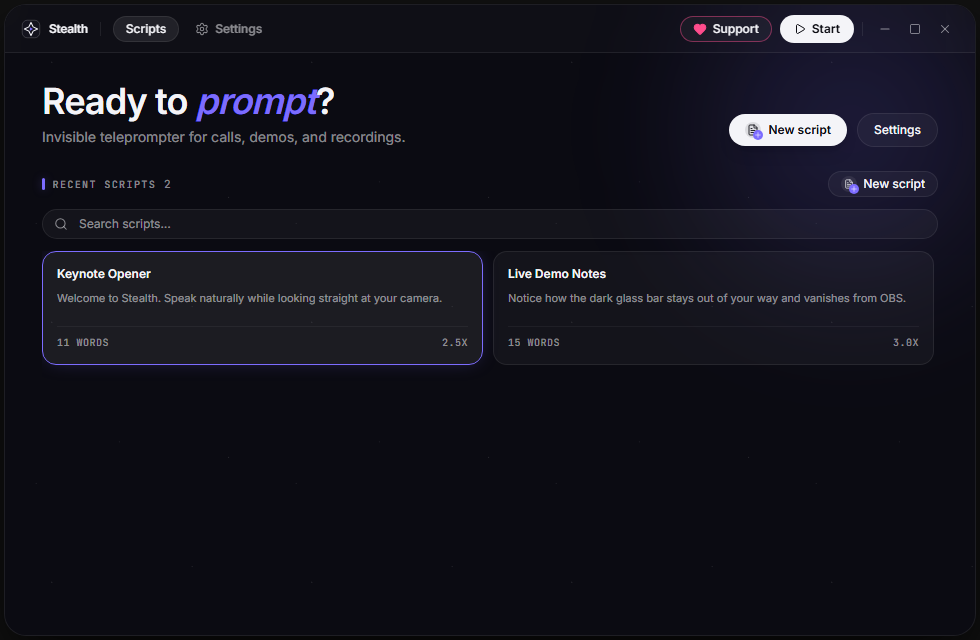
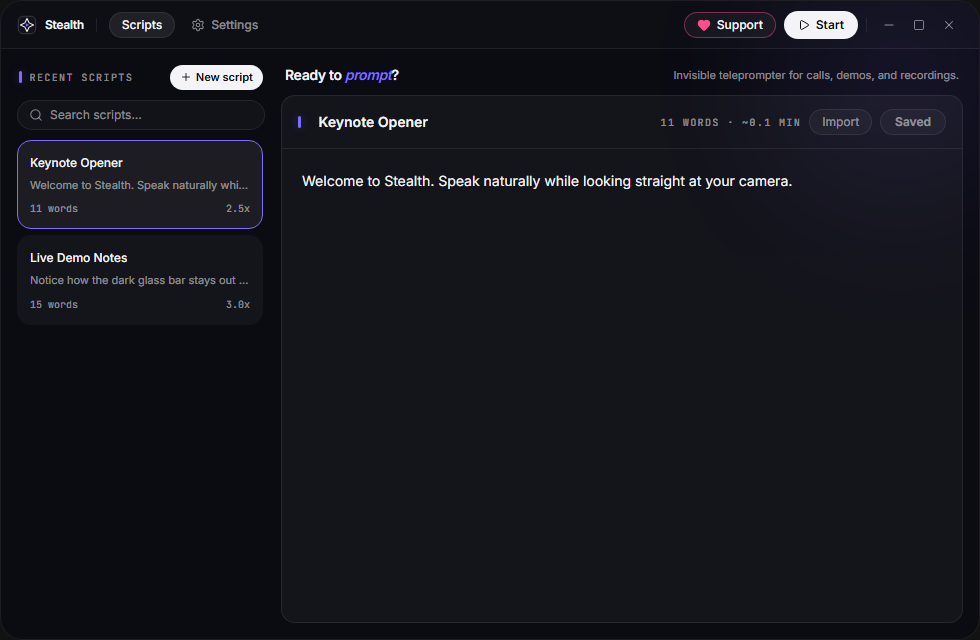
fix(ui): remove Windows DWM outer border, add top drag handle on prompter, simplify workspace

diff --git a/src/launcher/App.tsx b/src/launcher/App.tsx
@@ -33,8 +33,6 @@ import {
   LockIcon,
   PlayIcon,
   SettingsIcon,
-  PlusIcon,
-  FileTextIcon,
   HeartIcon,
   ExternalLinkIcon,
 } from '../components/Icons';
@@ -105,7 +103,7 @@ export default function LauncherApp(): JSX.Element {
   const [invisibilityActive, setInvisibilityActive] = createSignal<boolean>(true);
   const [hudVisible, setHudVisible] = createSignal<boolean>(false);
   const [hudSpeed, setHudSpeed] = createSignal<number>(3.0);
-  const [view, setView] = createSignal<'home' | 'editor' | 'settings'>('home');
+  const [view, setView] = createSignal<'workspace' | 'settings'>('workspace');
   const [supportMenuOpen, setSupportMenuOpen] = createSignal<boolean>(false);
 
   const t = () => getCopy(settings().language);
@@ -174,7 +172,6 @@ export default function LauncherApp(): JSX.Element {
       setSettings(updatedSettings);
       await saveSettings(updatedSettings);
       await emitUpdateScript(s);
-      setView('editor');
     } catch (e) {
       console.error('Failed to select script:', e);
     }
@@ -196,7 +193,7 @@ export default function LauncherApp(): JSX.Element {
     setScripts(updated);
     setActiveScript(newScript);
     await emitUpdateScript(newScript);
-    setView('editor');
+    setView('workspace');
   };
 
   const handleDeleteScript = async (id: string) => {
@@ -313,25 +310,23 @@ export default function LauncherApp(): JSX.Element {
 
   return (
     <div
-      class="w-screen h-screen overflow-hidden select-none relative font-sans bg-transparent p-1 box-border"
+      class="w-screen h-screen overflow-hidden select-none relative font-sans bg-transparent box-border"
       onClick={() => {
         if (supportMenuOpen()) setSupportMenuOpen(false);
       }}
     >
-      {/* Rounded Dark Glass Window Shell */}
-      <div
-        class="w-full h-full rounded-[22px] bg-[#0b0b12] border border-[var(--border)] overflow-hidden flex flex-col relative shadow-[0_24px_64px_rgba(0,0,0,0.78)] stealth-starfield"
-      >
-        {/* Subtle Corner Radial Glow using --accent-glow */}
+      {/* Full-bleed Rounded Window (no outer padding gap, zero Windows DWM border) */}
+      <div class="w-full h-full rounded-[22px] bg-[#0b0b12] border border-[var(--border)] overflow-hidden flex flex-col relative">
+        {/* Subtle Corner Ambient Glow */}
         <div
-          class="pointer-events-none absolute -top-24 -right-24 w-[440px] h-[440px] rounded-full blur-3xl opacity-65 transition-colors duration-300"
-          style={{ background: 'radial-gradient(circle, var(--accent-glow) 0%, transparent 70%)' }}
+          class="pointer-events-none absolute -top-28 -right-28 w-[380px] h-[380px] rounded-full blur-3xl opacity-40 transition-colors duration-300"
+          style={{ background: 'radial-gradient(circle, var(--accent-glow) 0%, transparent 72%)' }}
         />
 
         {/* Custom Frameless Draggable Titlebar */}
         <header
           data-tauri-drag-region
-          class="h-12 px-4 flex items-center justify-between border-b border-[var(--border)] bg-white/[0.02] backdrop-blur-md z-30 shrink-0 select-none"
+          class="h-12 px-4 flex items-center justify-between border-b border-[var(--border)] bg-white/[0.015] z-30 shrink-0 select-none"
         >
           {/* Left: Brand & View Pills */}
           <div data-tauri-drag-region class="flex items-center gap-3">
@@ -347,9 +342,9 @@ export default function LauncherApp(): JSX.Element {
             <nav class="flex items-center gap-1">
               <button
                 type="button"
-                onClick={() => setView('home')}
+                onClick={() => setView('workspace')}
                 class={`px-3 py-1 rounded-full text-xs font-medium transition-colors duration-150 ${
-                  view() !== 'settings'
+                  view() === 'workspace'
                     ? 'bg-white/[0.08] text-[var(--text)] border border-[var(--border)]'
                     : 'text-[var(--text-muted)] hover:text-[var(--text)]'
                 }`}
@@ -358,7 +353,7 @@ export default function LauncherApp(): JSX.Element {
               </button>
               <button
                 type="button"
-                onClick={() => setView(view() === 'settings' ? 'home' : 'settings')}
+                onClick={() => setView(view() === 'settings' ? 'workspace' : 'settings')}
                 class={`flex items-center gap-1.5 px-3 py-1 rounded-full text-xs font-medium transition-colors duration-150 ${
                   view() === 'settings'
                     ? 'bg-white/[0.08] text-[var(--text)] border border-[var(--accent)]'
@@ -385,14 +380,14 @@ export default function LauncherApp(): JSX.Element {
               </button>
             </Show>
 
-            {/* Support Pill Button (Only the heart is pink, matching user reference) */}
+            {/* Support Pill Button (Only the heart is pink) */}
             <div class="relative" onClick={(e) => e.stopPropagation()}>
               <button
                 type="button"
                 data-testid="support-button"
                 onClick={() => setSupportMenuOpen(!supportMenuOpen())}
                 title={t().supportTitle}
-                class="flex items-center gap-1.5 px-3 py-1 rounded-full bg-[var(--surface)] hover:bg-[var(--surface-hover)] border border-[#ff4d8d]/45 text-xs font-medium text-[var(--text)] transition-all duration-150"
+                class="flex items-center gap-1.5 px-3 py-1 rounded-full bg-[var(--surface)] hover:bg-[var(--surface-hover)] border border-[#ff4d8d]/45 text-xs font-medium text-[var(--text)] transition-colors duration-150"
               >
                 <HeartIcon class="w-3.5 h-3.5 text-[#ff4d8d]" />
                 <span>{t().support}</span>
@@ -437,7 +432,7 @@ export default function LauncherApp(): JSX.Element {
               title="Open / Close Prompter (Alt+H)"
               class={`h-7 px-3.5 rounded-full text-xs font-semibold flex items-center gap-1.5 transition-all duration-150 ${
                 hudVisible()
-                  ? 'bg-[var(--accent)] text-white shadow-[0_0_16px_var(--accent-glow)]'
+                  ? 'bg-[var(--accent)] text-white shadow-[0_0_14px_var(--accent-glow)]'
                   : 'bg-[var(--text)] text-[#0b0b12] hover:opacity-90'
               }`}
             >
@@ -480,50 +475,12 @@ export default function LauncherApp(): JSX.Element {
           </div>
         </header>
 
-        {/* Main Content Area */}
-        <main class="flex-1 min-h-0 p-6 flex flex-col relative z-10 overflow-hidden">
-          <Show when={view() === 'home'}>
-            <div class="flex flex-col h-full gap-6 max-w-4xl w-full mx-auto">
-              {/* Hero Header */}
-              <div class="flex flex-col sm:flex-row sm:items-end justify-between gap-4 pt-1">
-                <div>
-                  <h1 class="text-3xl sm:text-4xl font-semibold tracking-tight text-[var(--text)]">
-                    {t().heroPrefix}{' '}
-                    <em class="italic font-semibold text-[var(--accent)]">{t().heroAccent}</em>
-                    {t().heroSuffix}
-                  </h1>
-                  <p class="text-xs sm:text-sm text-[var(--text-muted)] mt-1.5">
-                    {t().heroSubtitle}
-                  </p>
-                </div>
-
-                <div class="flex items-center gap-2.5 shrink-0">
-                  <button
-                    type="button"
-                    onClick={handleCreateScript}
-                    class="flex items-center gap-2 px-4 py-2 rounded-full bg-[var(--text)] text-[#0b0b12] hover:opacity-90 text-xs font-semibold shadow-lg transition-all duration-150"
-                  >
-                    <span class="relative inline-flex items-center justify-center w-4 h-4 rounded-full bg-[#0b0b12]/10">
-                      <FileTextIcon class="w-3 h-3 text-[#0b0b12]" />
-                      <span class="absolute -bottom-0.5 -right-0.5 w-2.5 h-2.5 rounded-full bg-[var(--accent)] text-white flex items-center justify-center">
-                        <PlusIcon class="w-2 h-2" />
-                      </span>
-                    </span>
-                    <span>{t().newScript}</span>
-                  </button>
-
-                  <button
-                    type="button"
-                    onClick={() => setView('settings')}
-                    class="px-4 py-2 rounded-full bg-[var(--surface)] hover:bg-[var(--surface-hover)] border border-[var(--border)] text-xs font-medium text-[var(--text)] transition-all duration-150"
-                  >
-                    {t().navSettings}
-                  </button>
-                </div>
-              </div>
-
-              {/* Recent Scripts Glass Cards */}
-              <div class="flex-1 min-h-0">
+        {/* Main Body: Calm Desktop Split Workspace or Settings */}
+        <main class="flex-1 min-h-0 p-4 flex flex-col relative z-10 overflow-hidden">
+          <Show when={view() === 'workspace'}>
+            <div class="flex-1 min-h-0 flex gap-4">
+              {/* Left Column: Compact Script Library */}
+              <div class="w-[248px] shrink-0 h-full">
                 <ScriptList
                   scripts={scripts()}
                   selectedId={activeScript()?.id || null}
@@ -533,24 +490,34 @@ export default function LauncherApp(): JSX.Element {
                   onDelete={handleDeleteScript}
                 />
               </div>
-            </div>
-          </Show>
 
-          <Show when={view() === 'editor'}>
-            <div class="h-full max-w-4xl w-full mx-auto">
-              <ScriptEditor
-                script={activeScript()}
-                language={settings().language}
-                onSave={handleSaveScript}
-                onBack={() => setView('home')}
-              />
+              {/* Right Column: Clean Distraction-Free Script Editor */}
+              <div class="flex-1 min-w-0 h-full flex flex-col gap-2.5">
+                <div class="flex items-center justify-between px-1 shrink-0">
+                  <h1 class="text-sm font-semibold text-[var(--text)] tracking-tight">
+                    {t().heroPrefix}{' '}
+                    <em class="italic font-semibold text-[var(--accent)]">{t().heroAccent}</em>
+                    {t().heroSuffix}
+                  </h1>
+                  <span class="text-[11px] text-[var(--text-muted)] hidden md:inline">
+                    {t().heroSubtitle}
+                  </span>
+                </div>
+                <div class="flex-1 min-h-0">
+                  <ScriptEditor
+                    script={activeScript()}
+                    language={settings().language}
+                    onSave={handleSaveScript}
+                  />
+                </div>
+              </div>
             </div>
           </Show>
 
           <Show when={view() === 'settings'}>
             <div class="h-full max-w-4xl w-full mx-auto flex flex-col gap-3">
               <div class="flex items-center justify-between shrink-0">
-                <h2 class="text-lg font-semibold text-[var(--text)] tracking-tight">
+                <h2 class="text-base font-semibold text-[var(--text)] tracking-tight">
                   {t().settingsTitle}
                 </h2>
               </div>

diff --git a/src/launcher/ScriptList.tsx b/src/launcher/ScriptList.tsx
@@ -1,7 +1,7 @@
 import { createSignal, For, type JSX } from 'solid-js';
 import type { ScriptSummary } from '../lib/types';
 import { getCopy, type Locale } from '../lib/i18n';
-import { PlusIcon, TrashIcon, SearchIcon, FileTextIcon } from '../components/Icons';
+import { PlusIcon, TrashIcon, SearchIcon } from '../components/Icons';
 
 export interface ScriptListProps {
   scripts: ScriptSummary[];
@@ -27,34 +27,26 @@ export function ScriptList(props: ScriptListProps): JSX.Element {
   };
 
   return (
-    <section class="flex flex-col h-full select-none gap-3">
-      {/* Section Title with Accent Vertical Bar */}
-      <div class="flex items-center justify-between">
+    <aside class="flex flex-col h-full select-none gap-2.5">
+      {/* Header + Single New Script Pill */}
+      <div class="flex items-center justify-between px-0.5">
         <div class="flex items-center gap-2">
           <span class="section-accent-bar" />
           <span class="micro-label">{t().recentScripts}</span>
-          <span class="text-[11px] font-mono text-[var(--text-muted)] tabular-nums">
-            {props.scripts.length}
-          </span>
         </div>
 
         <button
           type="button"
           onClick={props.onCreate}
           title={t().newScript}
-          class="flex items-center gap-1.5 px-3 py-1 rounded-full bg-[var(--surface)] hover:bg-[var(--surface-hover)] border border-[var(--border)] text-xs font-medium text-[var(--text)] transition-all duration-200"
+          class="flex items-center gap-1 px-2.5 py-1 rounded-full bg-[var(--text)] text-[#0b0b12] hover:opacity-90 text-[11px] font-semibold transition-opacity"
         >
-          <span class="relative inline-flex items-center justify-center w-4 h-4 rounded-full bg-white/[0.08]">
-            <FileTextIcon class="w-2.5 h-2.5 text-[var(--text)]" />
-            <span class="absolute -bottom-0.5 -right-0.5 w-2.5 h-2.5 rounded-full bg-[var(--accent)] text-white flex items-center justify-center">
-              <PlusIcon class="w-2 h-2" />
-            </span>
-          </span>
+          <PlusIcon class="w-3 h-3" />
           <span>{t().newScript}</span>
         </button>
       </div>
 
-      {/* Search Input */}
+      {/* Compact Search */}
       <div class="relative">
         <SearchIcon class="w-3.5 h-3.5 absolute left-3 top-1/2 -translate-y-1/2 text-[var(--text-muted)] pointer-events-none" />
         <input
@@ -62,16 +54,16 @@ export function ScriptList(props: ScriptListProps): JSX.Element {
           placeholder={t().searchPlaceholder}
           value={query()}
           onInput={(e) => setQuery(e.currentTarget.value)}
-          class="w-full bg-[var(--surface)] border border-[var(--border)] rounded-full pl-9 pr-3.5 py-1.5 text-xs text-[var(--text)] placeholder-[var(--text-muted)] focus:outline-none focus:border-[var(--accent)] transition-colors"
+          class="w-full bg-white/[0.03] border border-[var(--border)] rounded-full pl-8 pr-3 py-1.5 text-xs text-[var(--text)] placeholder-[var(--text-muted)] focus:outline-none focus:border-[var(--accent)] transition-colors"
         />
       </div>
 
-      {/* Recent Scripts Glass Cards */}
-      <div class="flex-1 overflow-y-auto custom-scrollbar grid grid-cols-1 sm:grid-cols-2 gap-2.5 pr-1 content-start">
+      {/* Script List */}
+      <div class="flex-1 overflow-y-auto custom-scrollbar flex flex-col gap-1.5 pr-0.5">
         <For
           each={filteredScripts()}
           fallback={
-            <div class="col-span-full text-center py-8 px-4 rounded-[14px] bg-[var(--surface)] border border-[var(--border)] text-[var(--text-muted)] text-xs">
+            <div class="text-center py-8 px-3 rounded-[14px] bg-[var(--surface)] border border-[var(--border)] text-[var(--text-muted)] text-xs">
               {query() ? t().noScriptsMatch : t().noScriptsYet}
             </div>
           }
@@ -89,14 +81,14 @@ export function ScriptList(props: ScriptListProps): JSX.Element {
                     props.onSelect(item.id);
                   }
                 }}
-                class={`group relative flex flex-col justify-between p-3.5 rounded-[14px] cursor-pointer transition-all duration-200 border ${
+                class={`group relative flex flex-col p-3 rounded-[14px] cursor-pointer transition-colors duration-150 border ${
                   isSelected()
-                    ? 'bg-[var(--surface-hover)] border-[var(--accent)] shadow-[0_0_20px_-6px_var(--accent-glow)]'
-                    : 'bg-[var(--surface)] border-[var(--border)] hover:bg-[var(--surface-hover)] hover:border-white/15'
+                    ? 'bg-white/[0.07] border-[var(--accent)]'
+                    : 'bg-[var(--surface)] border-transparent hover:bg-[var(--surface-hover)] hover:border-[var(--border)]'
                 }`}
               >
-                <div class="flex items-start justify-between gap-2">
-                  <span class="text-xs font-semibold text-[var(--text)] truncate">
+                <div class="flex items-center justify-between gap-2">
+                  <span class="text-xs font-medium text-[var(--text)] truncate">
                     {item.title || t().untitled}
                   </span>
                   <button
@@ -107,17 +99,17 @@ export function ScriptList(props: ScriptListProps): JSX.Element {
                       e.stopPropagation();
                       props.onDelete(item.id);
                     }}
-                    class="opacity-0 group-hover:opacity-100 p-1 -mr-1 -mt-1 text-[var(--text-muted)] hover:text-rose-400 hover:bg-rose-500/10 rounded-full transition-all"
+                    class="opacity-0 group-hover:opacity-100 p-1 -mr-1 text-[var(--text-muted)] hover:text-rose-400 rounded-full transition-opacity"
                   >
-                    <TrashIcon class="w-3.5 h-3.5" />
+                    <TrashIcon class="w-3 h-3" />
                   </button>
                 </div>
 
-                <p class="text-[11px] text-[var(--text-muted)] line-clamp-2 mt-1.5 leading-relaxed min-h-[2.2em]">
+                <p class="text-[11px] text-[var(--text-muted)] truncate mt-1">
                   {item.snippet || '...'}
                 </p>
 
-                <div class="flex items-center justify-between mt-3 pt-2 border-t border-white/[0.05] text-[10px] font-mono uppercase tracking-wider text-[var(--text-muted)] tabular-nums">
+                <div class="flex items-center justify-between mt-2 text-[10px] font-mono text-[var(--text-muted)] tabular-nums">
                   <span>{item.word_count} {t().words}</span>
                   <span>{item.speed.toFixed(1)}x</span>
                 </div>
@@ -126,6 +118,6 @@ export function ScriptList(props: ScriptListProps): JSX.Element {
           }}
         </For>
       </div>
-    </section>
+    </aside>
   );
 }

diff --git a/src/hud/App.tsx b/src/hud/App.tsx
@@ -341,6 +341,26 @@ export default function HudApp(): JSX.Element {
           '-webkit-backdrop-filter': 'blur(24px)',
         }}
       >
+        {/* Top Drag Handle Zone (allows dragging prompter from the top edge too) */}
+        {!settings().click_through && (
+          <div
+            data-tauri-drag-region
+            onMouseDown={(e) => {
+              if (e.button === 0) {
+                try {
+                  getCurrentWindow().startDragging();
+                } catch (err) {
+                  console.warn('startDragging error:', err);
+                }
+              }
+            }}
+            title="Drag to move prompter"
+            class="group absolute top-0 left-4 right-4 h-7 z-30 flex items-center justify-center cursor-grab active:cursor-grabbing"
+          >
+            <div class="w-10 h-1 rounded-full bg-white/15 group-hover:bg-white/40 transition-colors duration-150" />
+          </div>
+        )}
+
         {/* Subtle Horizontal Eye-line Reading Marker */}
         <ReadingMarker topPercent={32} heightPx={1} />
 
